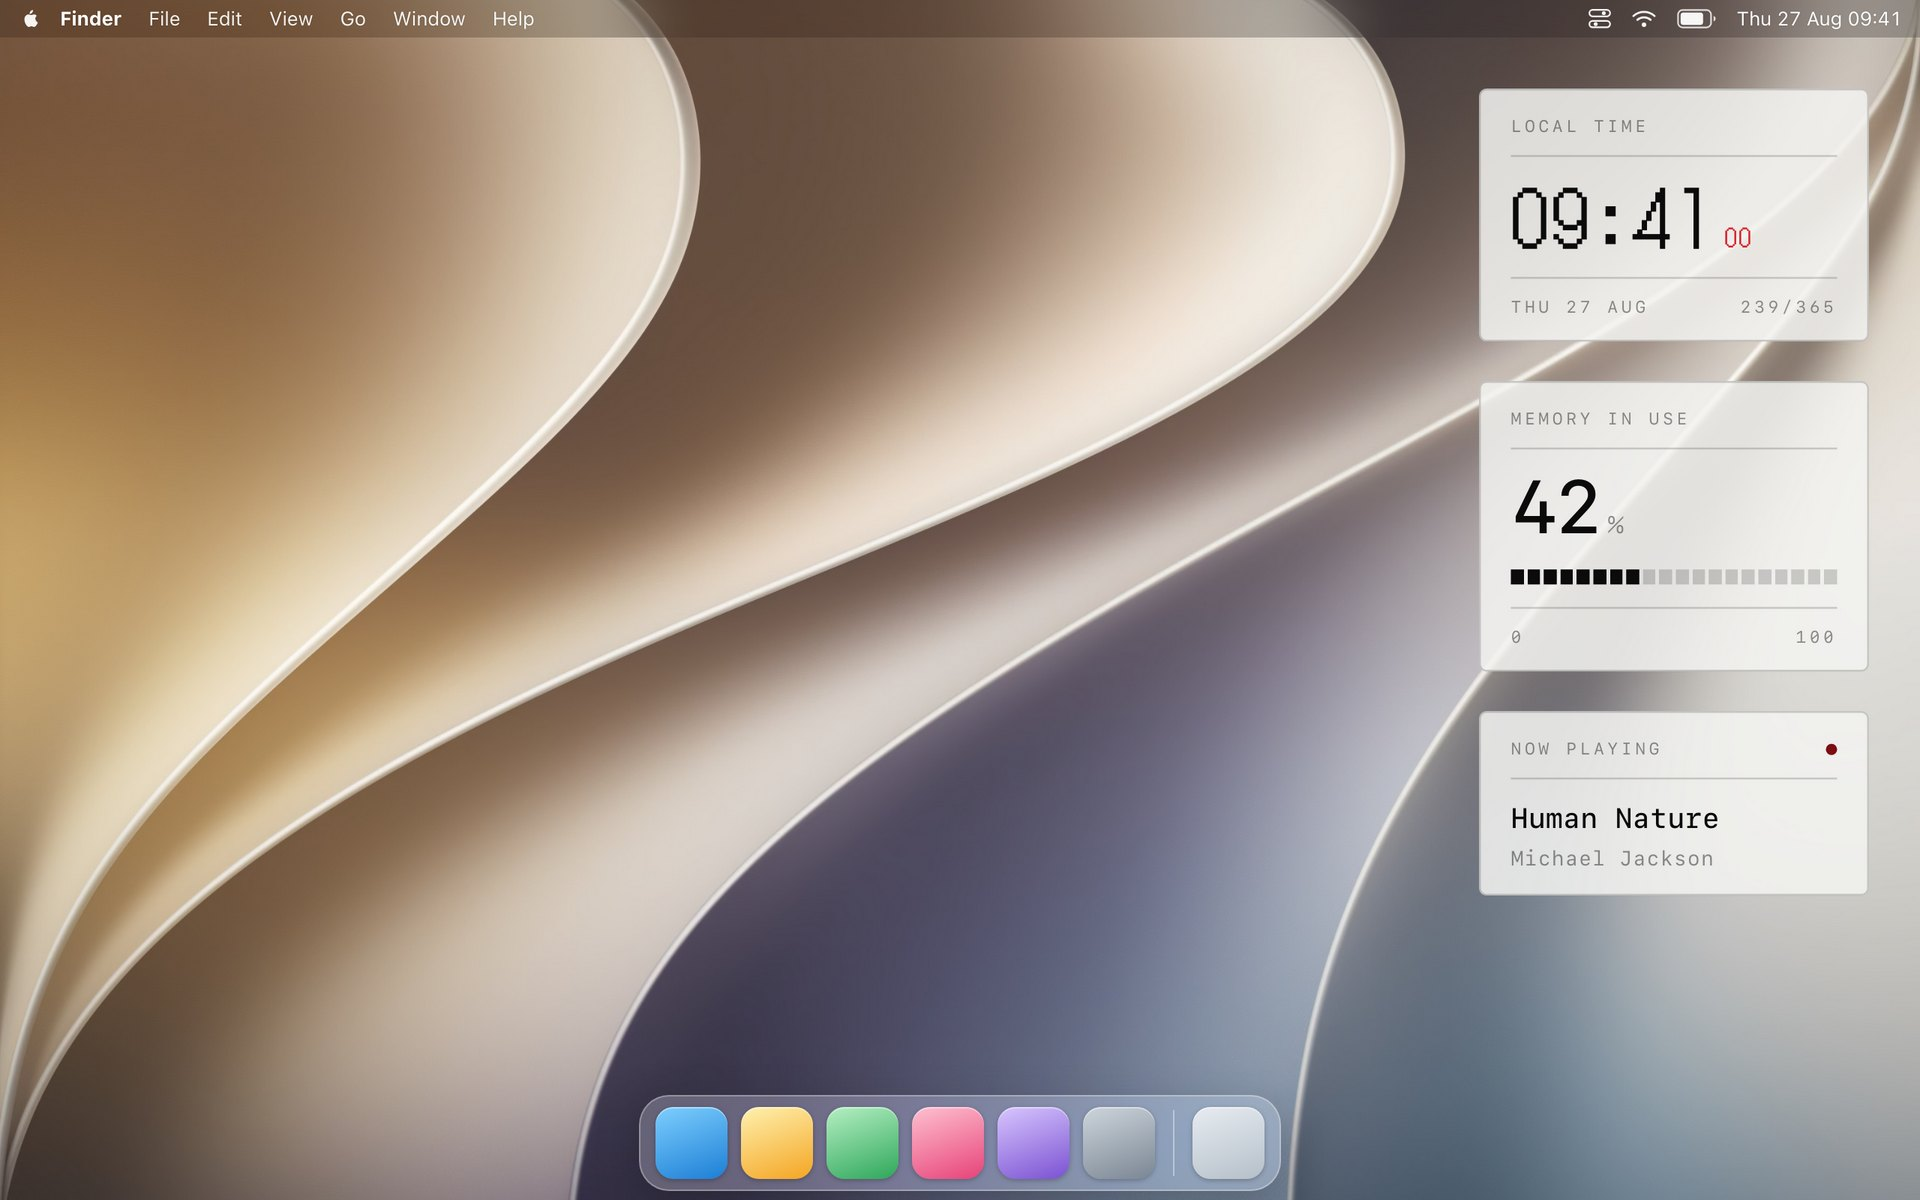
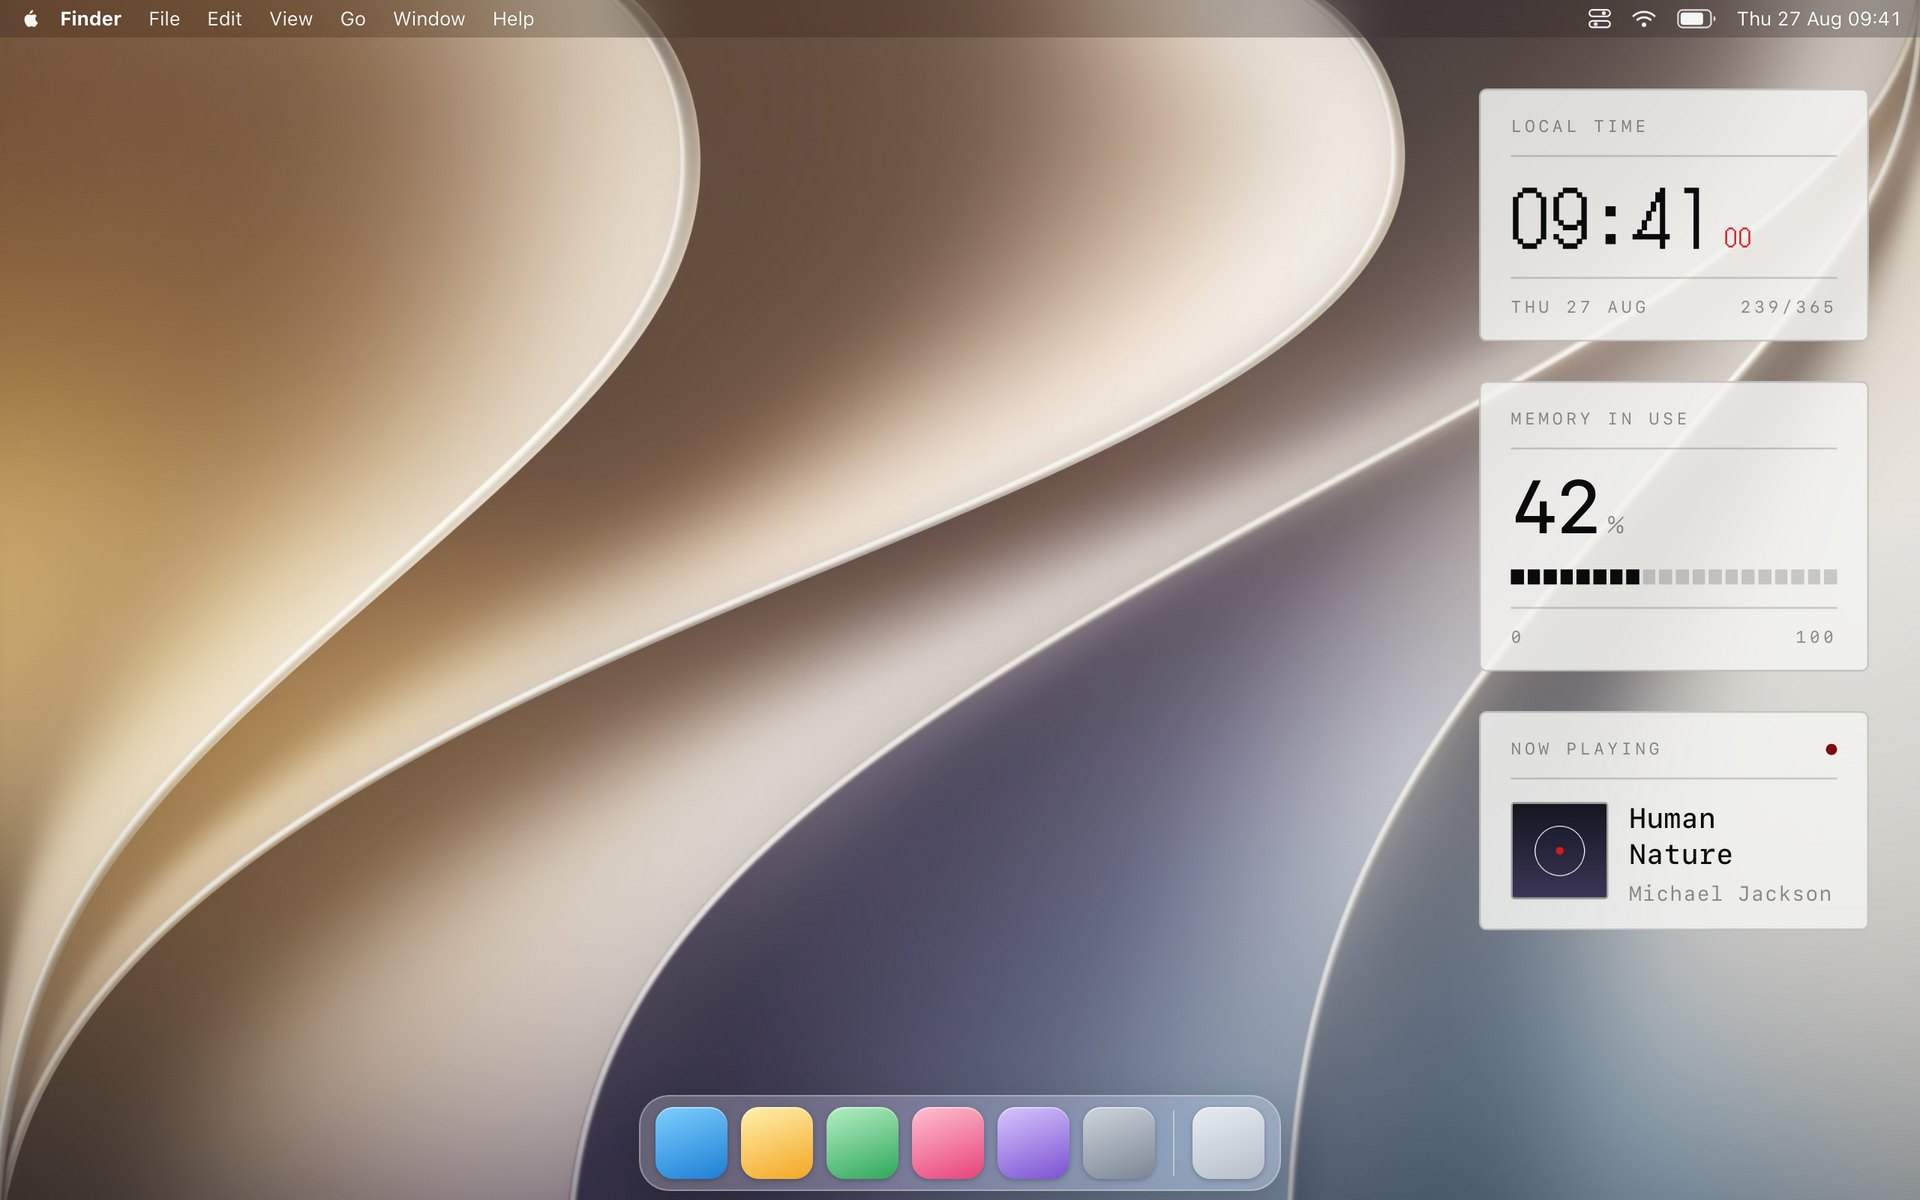
Refresh the desktop with the clock's faces and the cover
The screenshot shows what the widgets do now: the time on a dot matrix, and the album
cover beside the track. The alt text said the widgets were down the left, which they
have not been since they were arranged down the right.

Changed region(s): [[0.75, 0.6475, 1.0, 0.8017]]

diff --git a/app/page.tsx b/app/page.tsx
@@ -107,7 +107,7 @@ function Shot() {
         src="/desktop.jpg"
         width={1920}
         height={1200}
-        alt="A Mac desktop with three Gailan widgets down the left: the time, memory in use, and what is playing."
+        alt="A Mac desktop with three Gailan widgets down the right: the time on a dot matrix, memory in use on a scale, and what is playing with its cover."
       />
     </figure>
   );
